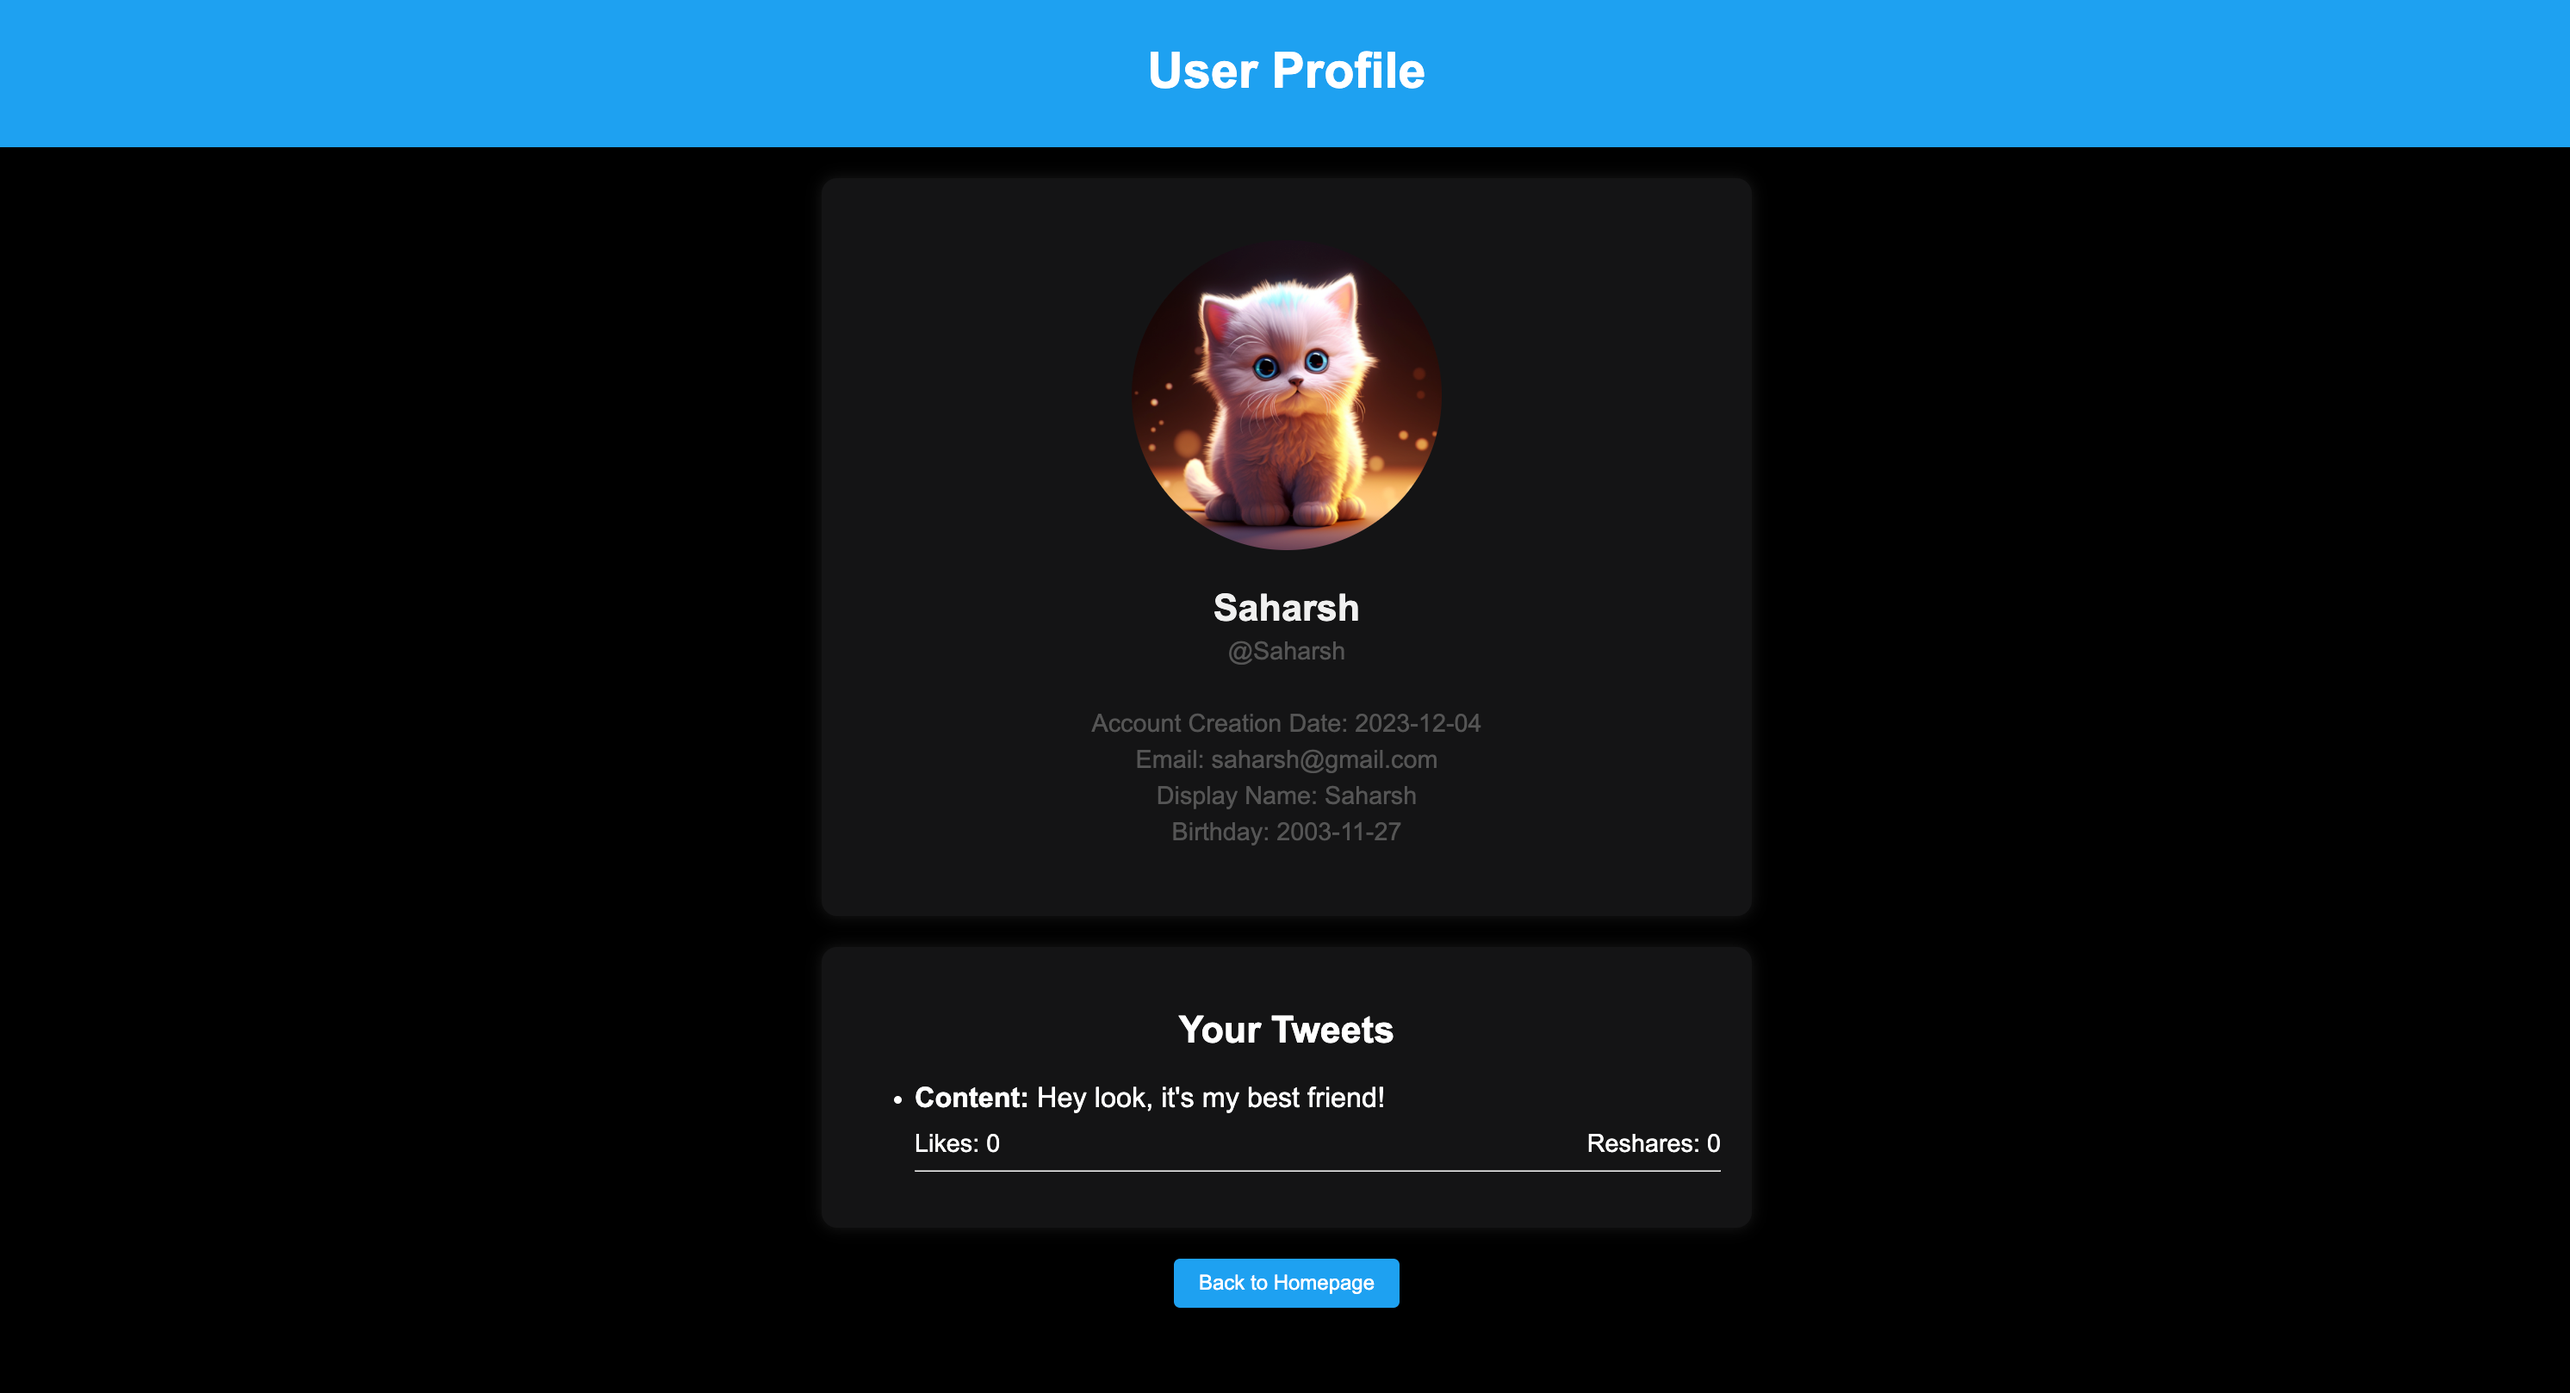
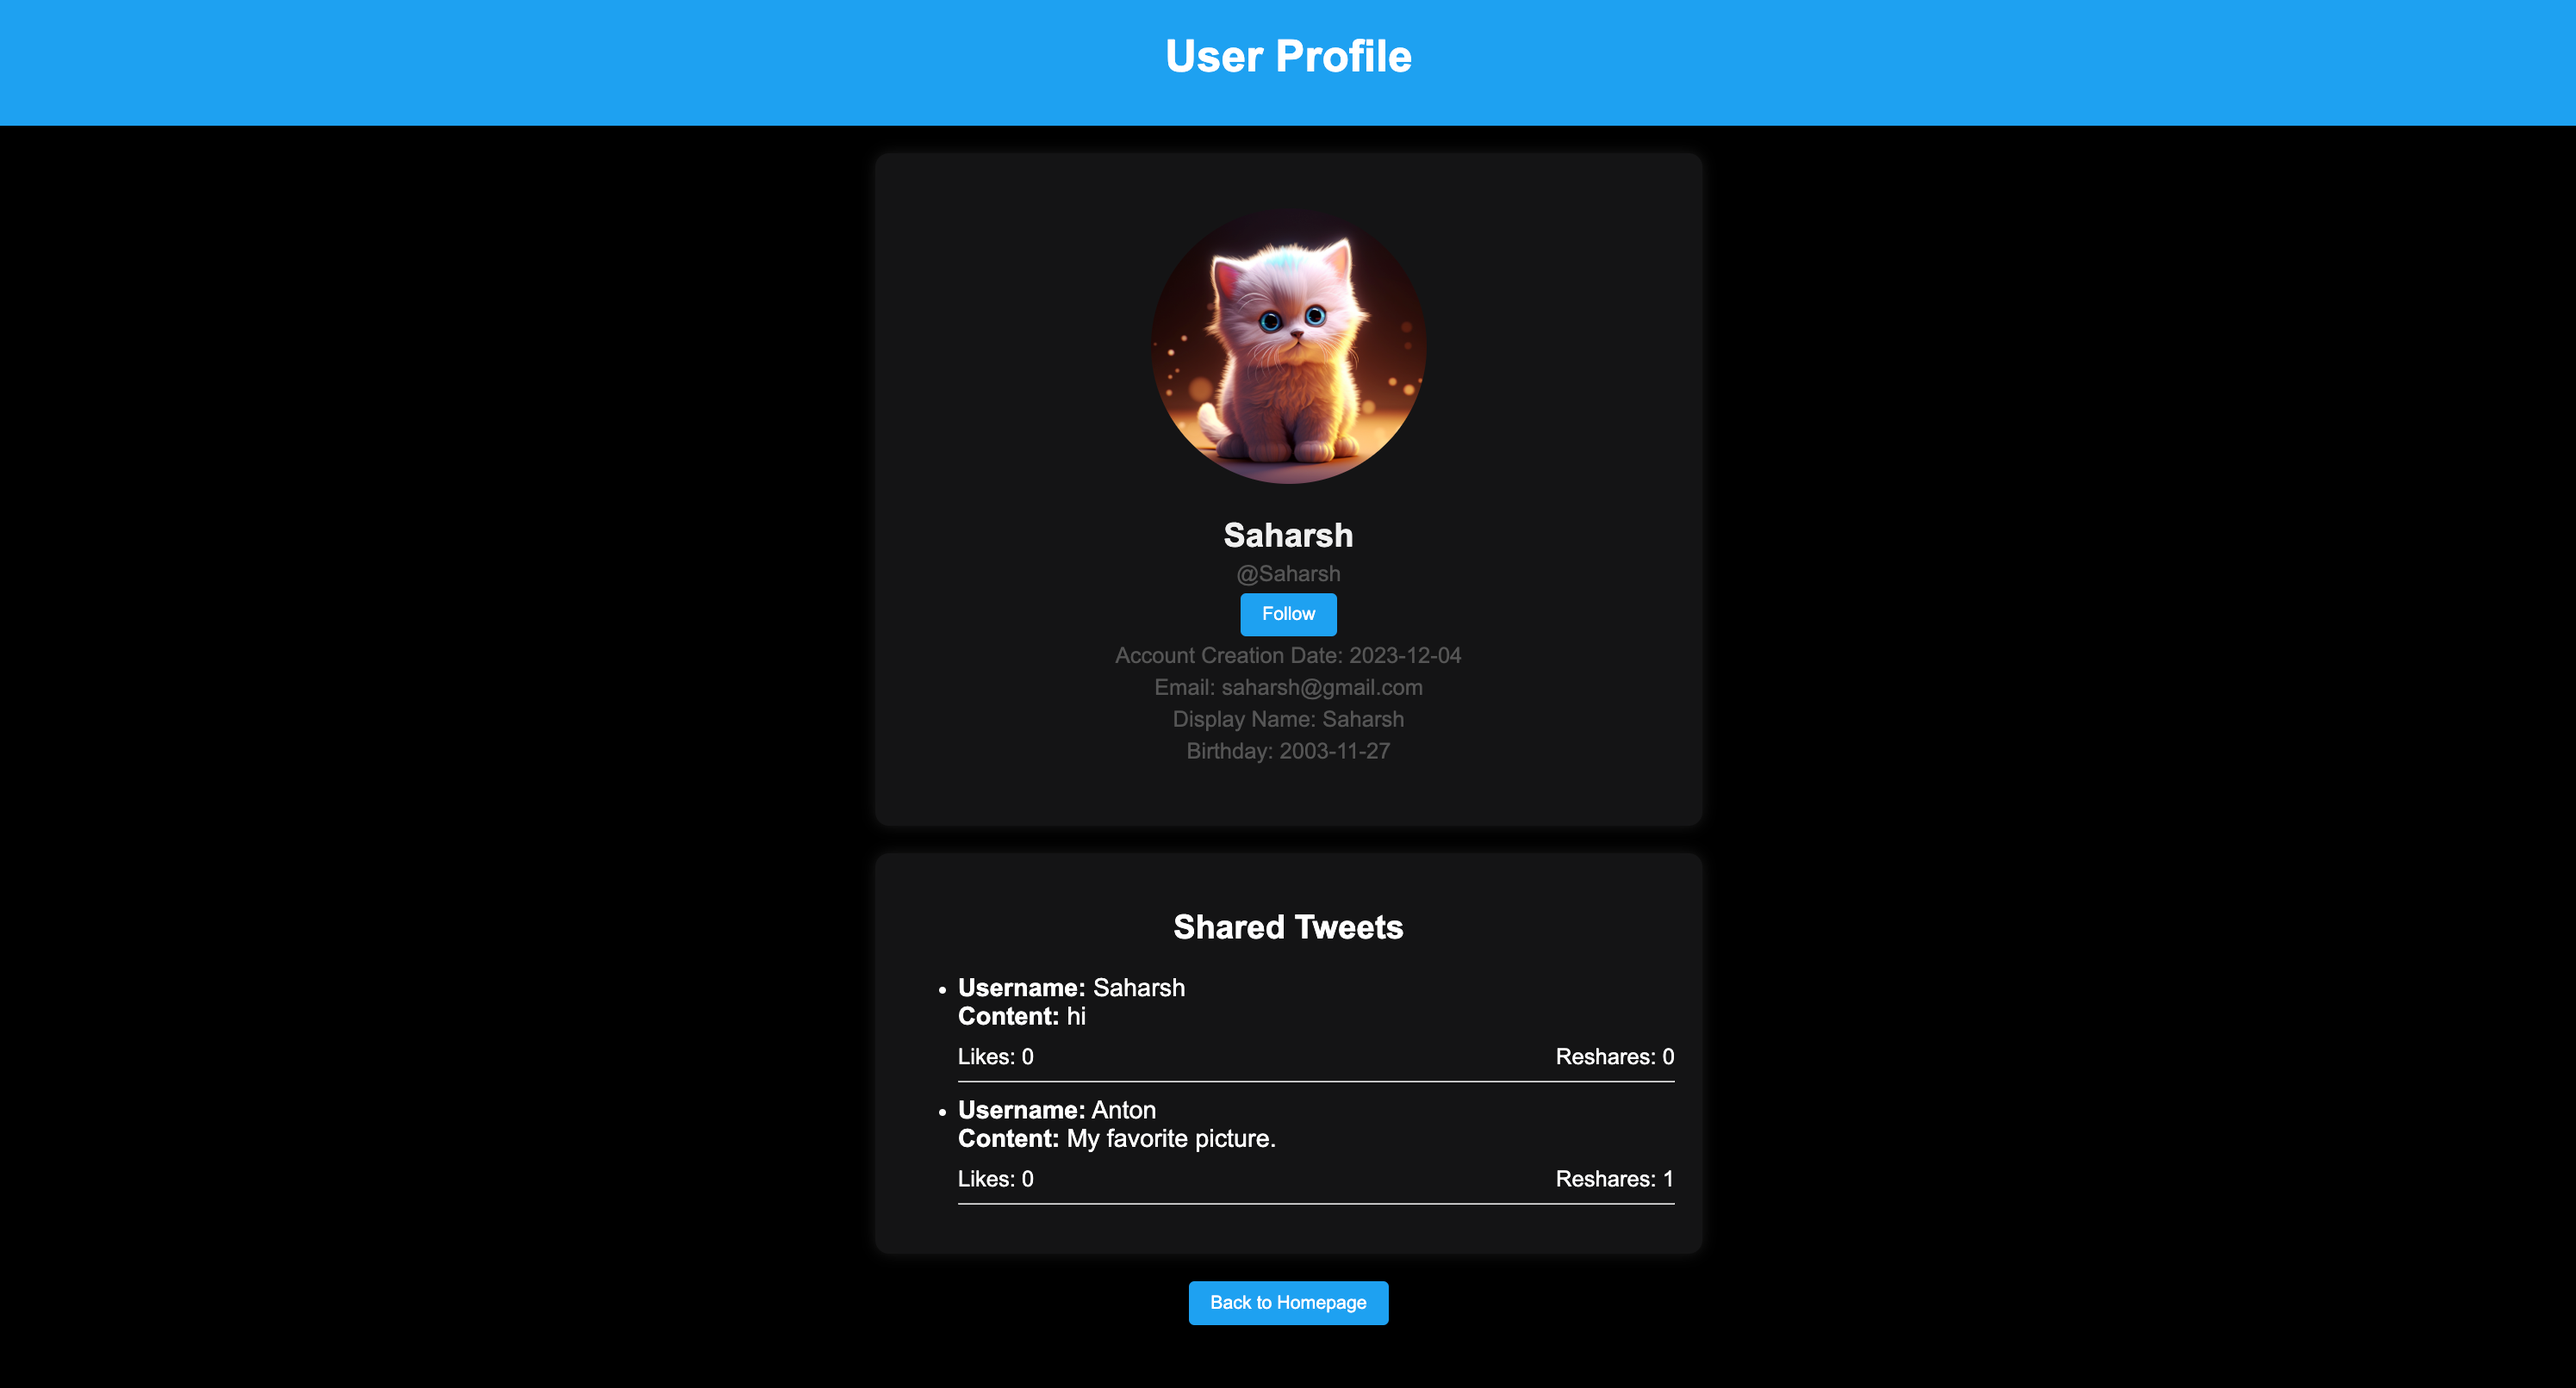
Update screenshot and READ.ME

diff --git a/README.md b/README.md
@@ -45,7 +45,7 @@ The homepage features a series of introductory messages, followed by a "Create T
 
 ## Profile Page
 ![Profile Page Screenshot](screenshots/Profile-Page.png)
-Clicking on the username hyperlink on the homepage redirects users to the profile page. The profile page is structured with user details followed by the tweets of the specific user. Additionally, a follow/unfollow button is prominently displayed. If the user was previously following this profile, it will indicate "following"; otherwise, the button will display "follow." By clicking the follow button, the user becomes a follower of the displayed profile, and the button transforms into "following." To unfollow, users simply click the button again, reverting it back to "Follow."
+Clicking on the username hyperlink on the homepage redirects users to the profile page. The profile page is structured with user details followed by the tweets of the specific user. Additionally, a follow/unfollow button is prominently displayed. If the user was previously following this profile, it will indicate "following"; otherwise, the button will display "follow." By clicking the follow button, the user becomes a follower of the displayed profile, and the button transforms into "following." To unfollow, users simply click the button again, reverting it back to "Follow." The "Shared Tweets" section shows all tweets that the user has posted and reshared.
 
 ## Comments Page
 ![Comments Page Screenshot](screenshots/Comments-Page.png)
